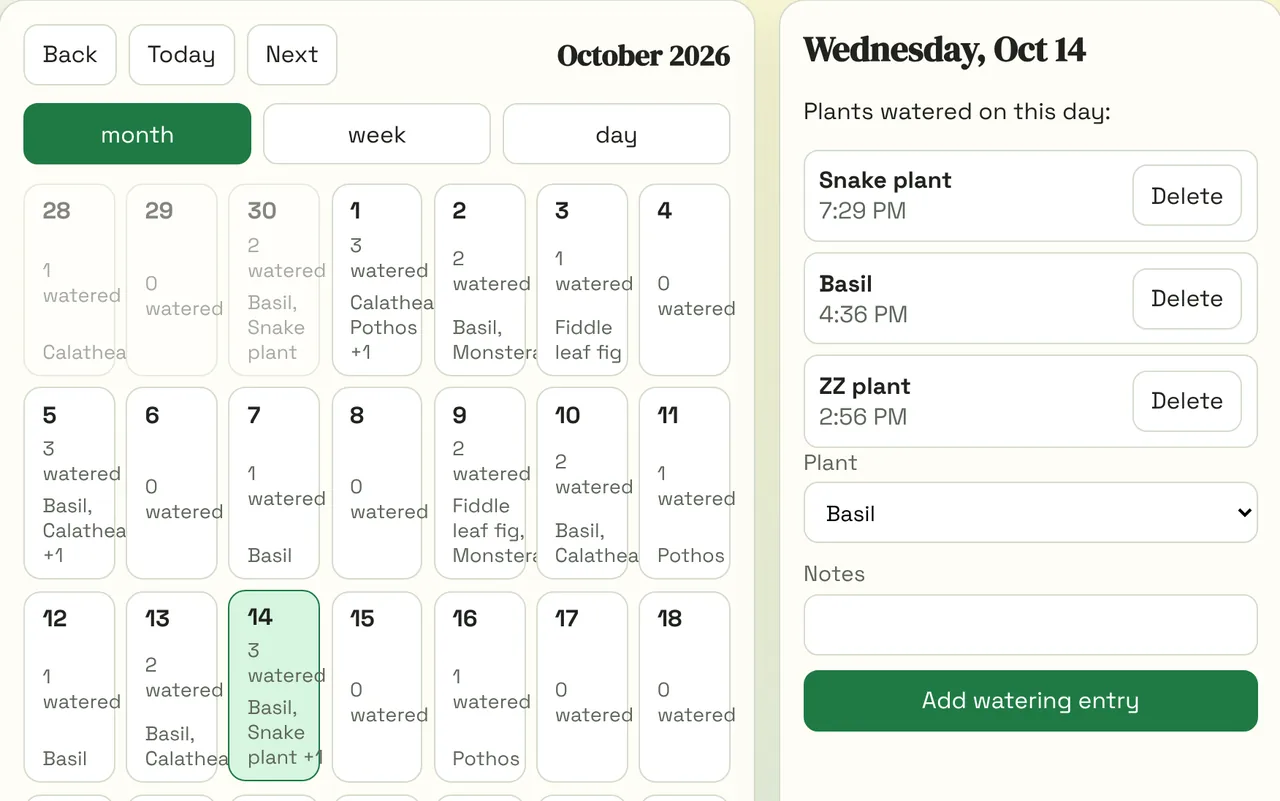
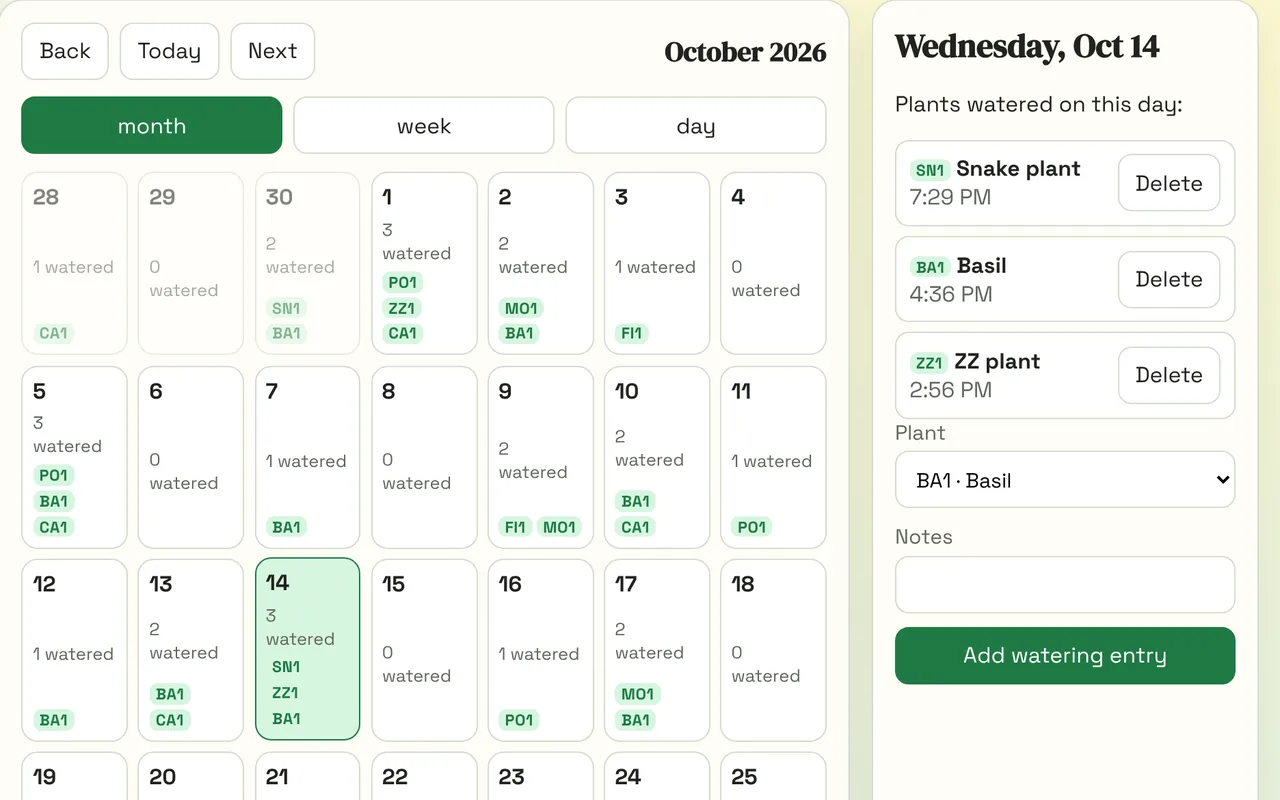
Update Nabata screenshots after the calendar fix
Recaptured from the latest Nabata with fresh demo data: calendar cells
no longer clip names and show short plant codes. The second slide's
caption and alt text now mention the codes.

Claude-Session: https://claude.ai/code/session_01KoTq1ifP29HccUmw9nJoHt

diff --git a/index.html b/index.html
@@ -189,8 +189,8 @@ void loop() {
                 <figcaption>Plants, a watering calendar and the day's log side by side</figcaption>
               </figure>
               <figure>
-                <img src="images/apps/nabata/calendar.webp" width="1280" height="801" alt="Month calendar showing how many plants were watered each day, with the selected day's list" loading="lazy">
-                <figcaption>Each day shows what was watered; pick one to see or add entries</figcaption>
+                <img src="images/apps/nabata/calendar.webp" width="1280" height="800" alt="Month calendar with short plant codes on each day, beside the selected day's watering list" loading="lazy">
+                <figcaption>Short plant codes show what was watered each day; pick a day to see or add entries</figcaption>
               </figure>
               <figure>
                 <img src="images/apps/nabata/mobile.webp" width="780" height="1688" alt="Nabata's calendar on a phone" loading="lazy" class="tall">
